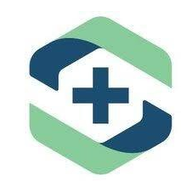
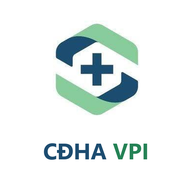
Add files via upload

diff --git a/app.js b/app.js
@@ -2037,7 +2037,7 @@ class RadOpsApp {
       <div class="bg-slate-900 text-white px-3.5 py-2 text-[11px] flex items-center justify-between border-b border-slate-800">
         <div class="flex items-center space-x-1.5 font-bold text-slate-300">
           <i data-lucide="shield-check" class="w-3.5 h-3.5 text-blue-400"></i>
-          <span>CỔNG ĐĂNG NHẬP RADOPS VPI</span>
+          <span>CỔNG ĐĂNG NHẬP CĐHA VPI</span>
         </div>
         <button onclick="radOpsApp.toggleLocationMode()" class="flex items-center space-x-1 px-2.5 py-0.5 rounded-full font-bold transition ${
           isExternal ? 'bg-amber-500/20 text-amber-300 border border-amber-500/40' : 'bg-emerald-500/20 text-emerald-300 border border-emerald-500/40'
@@ -2050,13 +2050,16 @@ class RadOpsApp {
       <div class="flex-1 overflow-y-auto p-4 space-y-4">
         <!-- Banner Đăng nhập Bệnh viện VPI -->
         <div class="bg-gradient-to-br from-blue-900 via-blue-800 to-indigo-900 text-white p-5 rounded-3xl shadow-sm text-center space-y-2 relative overflow-hidden">
-          <div class="w-16 h-16 mx-auto rounded-2xl bg-white p-2 shadow-md flex items-center justify-center border border-white/30">
-            <img src="logo-vpi.png" alt="Logo BV VPI" class="w-full h-full object-contain">
+          <div class="mx-auto flex flex-col items-center justify-center">
+            <div class="w-16 h-16 rounded-2xl bg-white p-1.5 shadow-md flex items-center justify-center border border-white/30">
+              <img src="logo-vpi.png" alt="Logo BV VPI" class="w-full h-full object-contain">
+            </div>
+            <span class="text-[11px] font-black tracking-wider text-white mt-1.5 bg-blue-950/70 px-3 py-0.5 rounded-full border border-blue-400/40 shadow-xs">CĐHA VPI</span>
           </div>
           <div>
             <span class="text-[10px] uppercase font-bold tracking-widest text-blue-200">Bệnh viện Quốc tế Vĩnh Phúc</span>
             <h1 class="text-base font-extrabold text-white mt-0.5">Khoa Chẩn đoán hình ảnh</h1>
-            <p class="text-xs text-blue-200/90 mt-1">Hệ thống Quản lý Thiết bị & An toàn bức xạ (RADOPS)</p>
+            <p class="text-xs text-blue-200/90 mt-1">Hệ thống Quản lý Thiết bị & An toàn bức xạ</p>
           </div>
           <div class="pt-1">
             <span class="text-[10px] bg-blue-500/30 text-blue-100 border border-blue-400/30 px-2.5 py-0.5 rounded-full font-semibold inline-block">
@@ -2273,13 +2276,14 @@ class RadOpsApp {
         <div class="flex items-center justify-between">
           <!-- Logo & Bệnh viện Vĩnh Phúc VPI -->
           <div class="flex items-center space-x-2.5">
-            <div class="w-9 h-9 rounded-xl bg-white p-1 border border-slate-200 dark:border-slate-700 flex items-center justify-center shadow-xs overflow-hidden shrink-0">
-              <img src="logo-vpi.png" alt="Logo BV VPI" class="w-full h-full object-contain">
+            <div class="flex flex-col items-center justify-center bg-white dark:bg-slate-800 p-1 rounded-xl border border-slate-200 dark:border-slate-700 shadow-xs shrink-0">
+              <img src="logo-vpi.png" alt="Logo BV VPI" class="w-7 h-7 object-contain">
+              <span class="text-[7.5px] font-black text-blue-900 dark:text-blue-300 tracking-tighter leading-none mt-0.5">CĐHA VPI</span>
             </div>
             <div>
               <div class="flex items-center space-x-1.5">
-                <span class="font-extrabold tracking-tight text-blue-700 dark:text-blue-400 text-base">RADOPS</span>
-                <span class="text-xs text-slate-400">• Khoa CĐHA</span>
+                <span class="font-extrabold tracking-tight text-blue-700 dark:text-blue-400 text-base">CĐHA VPI</span>
+                <span class="text-[10px] font-bold text-slate-500 dark:text-slate-400 bg-slate-100 dark:bg-slate-700 px-1.5 py-0.2 rounded font-mono">RADOPS</span>
               </div>
               <div class="flex items-center text-xs font-semibold text-slate-700 dark:text-slate-200">
                 <span>${this.data.hospital.name}</span>
@@ -3617,7 +3621,7 @@ class RadOpsApp {
         </div>
 
         <div class="bg-blue-50 dark:bg-blue-950/40 p-3.5 rounded-2xl border border-blue-200 dark:border-blue-900/50 text-xs text-blue-800 dark:text-blue-200 leading-relaxed">
-          Ứng dụng <strong>RADOPS VPI</strong> được thiết kế theo chuẩn PWA. Chỉ mất 10 giây để đưa biểu tượng app ra màn hình chính iPhone để mở nhanh không cần Safari.
+          Ứng dụng <strong>CĐHA VPI</strong> được thiết kế theo chuẩn PWA. Chỉ mất 10 giây để đưa biểu tượng app ra màn hình chính iPhone để mở nhanh không cần Safari.
         </div>
 
         <!-- 3 Bước Cài đặt -->
@@ -3653,7 +3657,7 @@ class RadOpsApp {
             <div class="space-y-1">
               <div class="font-bold text-slate-900 dark:text-white">Nhấn nút "Thêm" (Add)</div>
               <p class="text-slate-500 dark:text-slate-400 text-[11px] leading-relaxed">
-                Ở góc trên bên phải màn hình xác nhận, bấm <strong class="text-blue-600 dark:text-blue-400">Thêm (Add)</strong>. Biểu tượng ứng dụng <strong>RADOPS VPI</strong> sẽ lập tức xuất hiện trên màn hình chính của iPhone!
+                Ở góc trên bên phải màn hình xác nhận, tên app mặc định là <strong class="text-blue-600 dark:text-blue-400 font-bold">CĐHA VPI</strong>. Bấm <strong class="text-blue-600 dark:text-blue-400">Thêm (Add)</strong>, biểu tượng ứng dụng <strong>CĐHA VPI</strong> sẽ lập tức xuất hiện ngay trên màn hình chính của iPhone!
               </p>
             </div>
           </div>

diff --git a/index.html b/index.html
@@ -3,7 +3,7 @@
 <head>
   <meta charset="UTF-8">
   <meta name="viewport" content="width=device-width, initial-scale=1.0, maximum-scale=1.0, user-scalable=no">
-  <title>RADOPS - Quản lý Thiết bị Chẩn đoán hình ảnh & An toàn bức xạ</title>
+  <title>CĐHA VPI - Quản lý Thiết bị Chẩn đoán hình ảnh & An toàn bức xạ</title>
   
   <!-- PWA & Mobile Web App Meta -->
   <link rel="manifest" href="manifest.json">
@@ -11,7 +11,7 @@
   <meta name="mobile-web-app-capable" content="yes">
   <meta name="apple-mobile-web-app-capable" content="yes">
   <meta name="apple-mobile-web-app-status-bar-style" content="black-translucent">
-  <meta name="apple-mobile-web-app-title" content="RADOPS VPI">
+  <meta name="apple-mobile-web-app-title" content="CĐHA VPI">
   <link rel="apple-touch-icon" href="apple-touch-icon.png">
   <link rel="icon" type="image/png" sizes="192x192" href="icon-192.png">
   <link rel="icon" type="image/png" sizes="64x64" href="favicon.png">
@@ -56,7 +56,7 @@
   <div id="view-toggle" class="no-print bg-slate-900 text-slate-300 px-4 py-2 text-xs flex items-center justify-between border-b border-slate-800 shadow-sm z-50">
     <div class="flex items-center space-x-2">
       <img src="logo-vpi.png" alt="Logo VPI" class="w-5 h-5 rounded-md bg-white p-0.5 object-contain shadow-xs">
-      <span class="font-bold text-white tracking-wide">RADOPS SYSTEM</span>
+      <span class="font-bold text-white tracking-wide">CĐHA VPI</span>
       <span class="text-slate-400 hidden sm:inline">• Khoa Chẩn đoán hình ảnh</span>
       <span class="text-[10px] bg-blue-900/60 text-blue-300 border border-blue-700/60 px-2 py-0.5 rounded-full hidden md:inline">
         Tuân thủ NĐ 142/2020 & TT 23/TT-BKHCN

diff --git a/sw.js b/sw.js
@@ -1,7 +1,7 @@
 // RADOPS - Service Worker cho Khoa CĐHA BV Vĩnh Phúc VPI
 // Hỗ trợ hoạt động Offline trong phòng máy chì (CT / MRI / X-quang) khi sóng 4G yếu
 
-const CACHE_NAME = 'radops-vpi-cache-v2';
+const CACHE_NAME = 'radops-vpi-cache-v3';
 const STATIC_ASSETS = [
   './',
   './index.html',
